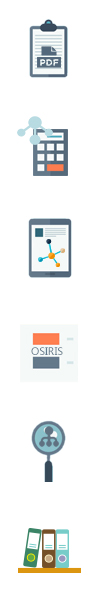
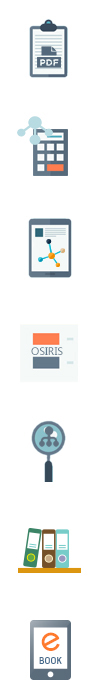
zzz

Changed region(s): [[0.18, 0.03, 0.81, 0.84], [0.18, 0.87, 0.81, 0.99]]

diff --git a/src/js/module/confirm.js b/src/js/module/confirm.js
@@ -5,9 +5,22 @@
  * @param  {[function]} cancel [失败后回调]
  * @return {[object]}           [Confirm 实例]
  */
-define('confirm',['jquery','underscore','jquery.dialog'],function($,_,Dialog){
+(function( factory ) {
+  if ( typeof define === "function" && define.amd ) {
+    define('confirm',['jquery','underscore','jquery.dialog','jquery.widget'],factory);
+  } else {
+    factory( jQuery,_,Dialog,widget);
+  }
+}(function($,_,Dialog,widget){
   function Confirm(opt){
-    $.extend(this,arguments.callee.options,opt);
+    $.extend(this,arguments.callee.options,arguments.callee.dialogOpt,opt);
+    this.dialogOpt = $.extend({},arguments.callee.dialogOpt,{
+      width:this.width,
+      height:this.height,
+      minWidth:this.minWidth,
+      minHeight:this.minHeight,
+      modal:this.modal
+    });
     this.init();
     this.events();
   }
@@ -16,17 +29,12 @@ define('confirm',['jquery','underscore','jquery.dialog'],function($,_,Dialog){
     init: function(){
       var that = this;
       this.$wrap = $(this._template(this));
-      this.dialog = new Dialog({
+      this.dialog = new Dialog($.extend({
         el:this.$wrap,
-        width:280,
-        height:160,
-        minWidth:280,
-        minHeight:158,
-        modal:true,
         close: function(){
           that.$wrap.remove();
         }
-      });
+      }),this.dialogOpt);
     },
     events: function(){
       var that = this;
@@ -55,9 +63,32 @@ define('confirm',['jquery','underscore','jquery.dialog'],function($,_,Dialog){
       content: '确定要继续操作吗？',
       pass: $.noop,
       cancel: $.noop
+    },
+    dialogOpt: {
+      width:280,
+      height:160,
+      minWidth:280,
+      minHeight:158,
+      modal:true
     }
   });
 
-  return Confirm;
+  widget.install('confirm',function(opt){
+    this.preon('click',function(e){
+      e.stopImmediatePropagation();
+      
+      var confirm = new Confirm($.extend({
+        pass: function(){
+          
+        },
+        cancel: function(){
 
-});
+        }
+      },opt));
+
+    });
+
+  });
+
+  return Confirm;
+}));

diff --git a/src/js/module/preon.js b/src/js/module/preon.js
@@ -1,0 +1,34 @@
+/**
+ * 往调用链前添加一个jquery事件
+ */
+(function( factory ) {
+  if ( typeof define === "function" && define.amd ) {
+    define('jquery.preon',['jquery','underscore'],factory);
+  } else {
+    factory( jQuery,_ );
+  }
+}(function($,_){
+
+  $.fn.extend({
+    preon: function(type,selector,data,handler){
+      var args = arguments;
+      if(data == null && handler == null){
+        handler = selector;
+      }else{
+        handler = data;
+      }
+      return this.each(function(){
+        var index;
+        $.fn.on.apply($(this),args);
+        var events = $._data(this).events[type];
+        var listnum = _.findIndex(events,function(obj){return obj.handler == handler});
+        var item = events.splice(listnum,1)[0];
+        //delegate
+        index = (typeof selector === "string") ? 0 : events.delegateCount;
+        events.splice(index,0,item);
+      });
+    }
+  });
+
+}));
+

diff --git a/src/js/app.js b/src/js/app.js
@@ -1,4 +1,4 @@
-/* build : 564493634@qq.com 2015-09-15 09:51:35 */
+/* build : 564493634@qq.com 2015-09-24 16:45:44 */
 /** vim: et:ts=4:sw=4:sts=4
  * @license RequireJS 2.1.16 Copyright (c) 2010-2015, The Dojo Foundation All Rights Reserved.
  * Available via the MIT or new BSD license.
@@ -2142,6 +2142,7 @@ require.config({
     "effect": "lib/effect",
     "jquery.dialog": "module/dialog",
     "outer": "module/outer",
+    "preon": "module/preon",
     "confirm": "module/confirm",
     "alert": "module/alert",
     "tips": "module/tips",
@@ -2195,6 +2196,6 @@ require.config({
     "console": "special/console",
     "baidu.map": "http://api.map.baidu.com/getscript?v=2.0&ak=BB72a92913f9ca70a0587577b1a0dae9"
   },
-  urlArgs: "yaozhVersion=1.2.5"+"&data="+new Date().getTime(),
+  urlArgs: "yaozhVersion=1.3.3"+"&data="+new Date().getTime(),
   waitSeconds: 10
 })

diff --git a/src/css/db.css b/src/css/db.css
@@ -2073,7 +2073,7 @@ header .control-bar {
   padding: 16px 332px 16px 16px;
   position: relative;
   z-index: 3;
-  min-height: 400px;
+  min-height: 540px;
 }
 .detail-style-2 .body .ui-panel {
   border: none;
@@ -2713,6 +2713,9 @@ header .control-bar {
 }
 .page-tool .tool-panel .item .logo.logo6 {
   background-position: 0 -500px;
+}
+.page-tool .tool-panel .item .logo.logo7 {
+  background-position: 0 -600px;
 }
 .page-tool .tool-panel .item .title {
   font-size: 16px;

diff --git a/gulpfile.js b/gulpfile.js
@@ -25,7 +25,7 @@ dest        = './dist';
 */
 var devbaseUrl   = "http://static.yaozh.com/js",
 probaseUrl       = "http://static.yaozh.com/js";
-var version      = "1.3.3";
+var version      = "1.3.4";
 //所有需要合并的模块配置
 var concatConfig = ["/js/lib","/js/module","/js/plugin"];
 //所有需要复制的文件配置

diff --git a/src/less/includes/db/page-detail.less b/src/less/includes/db/page-detail.less
@@ -19,7 +19,7 @@
     background-color: #f2f5f8;
     padding: @space @width+@space*2 @space @space;
     position: relative;z-index: 3;
-    min-height: 400px;
+    min-height: 540px;
     .ui-panel{
       border:none;padding: 0;
       background-color: transparent;

diff --git a/src/less/includes/db/page-other.less b/src/less/includes/db/page-other.less
@@ -422,6 +422,9 @@
         &.logo6{
           background-position: 0 -500px;
         }
+        &.logo7{
+          background-position: 0 -600px;
+        }
       }
       .title{
         font-size: 16px;
